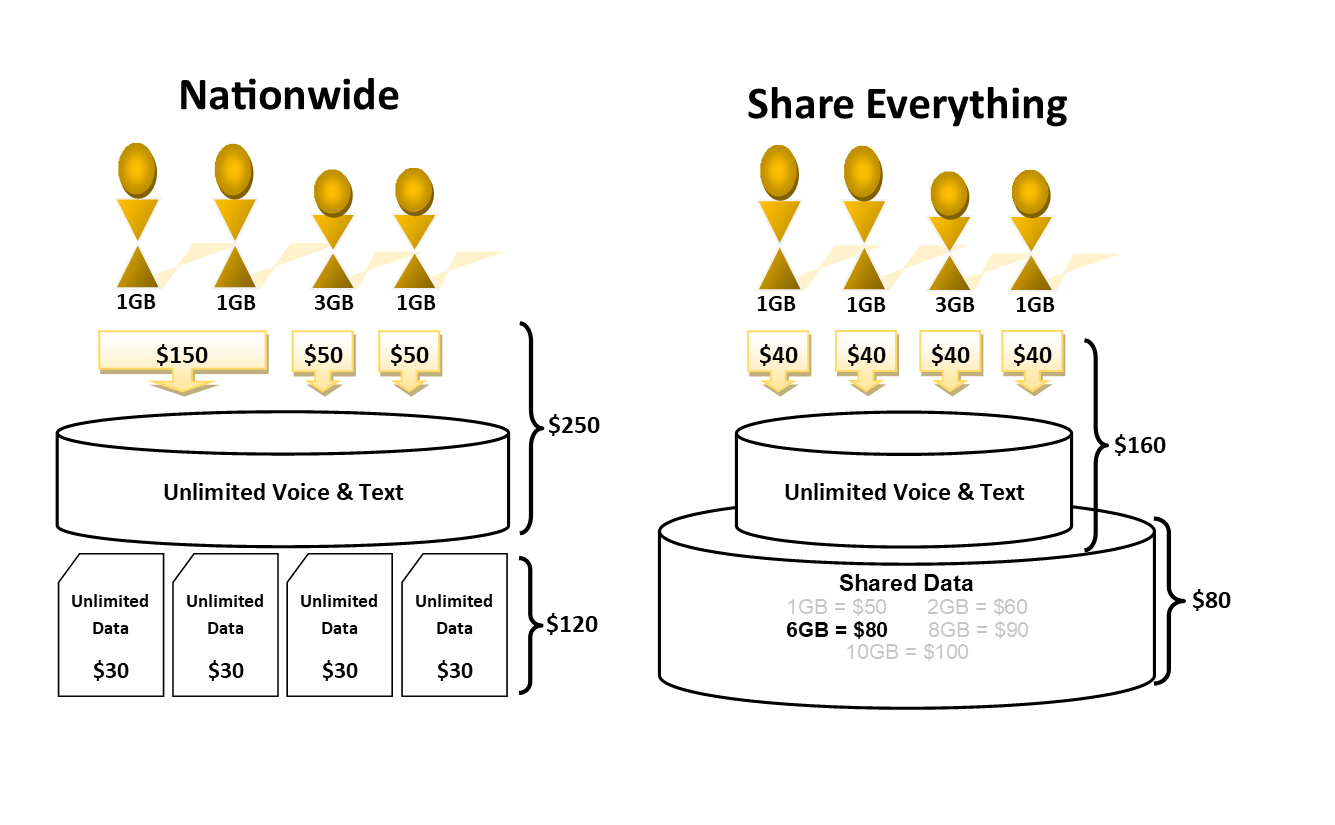
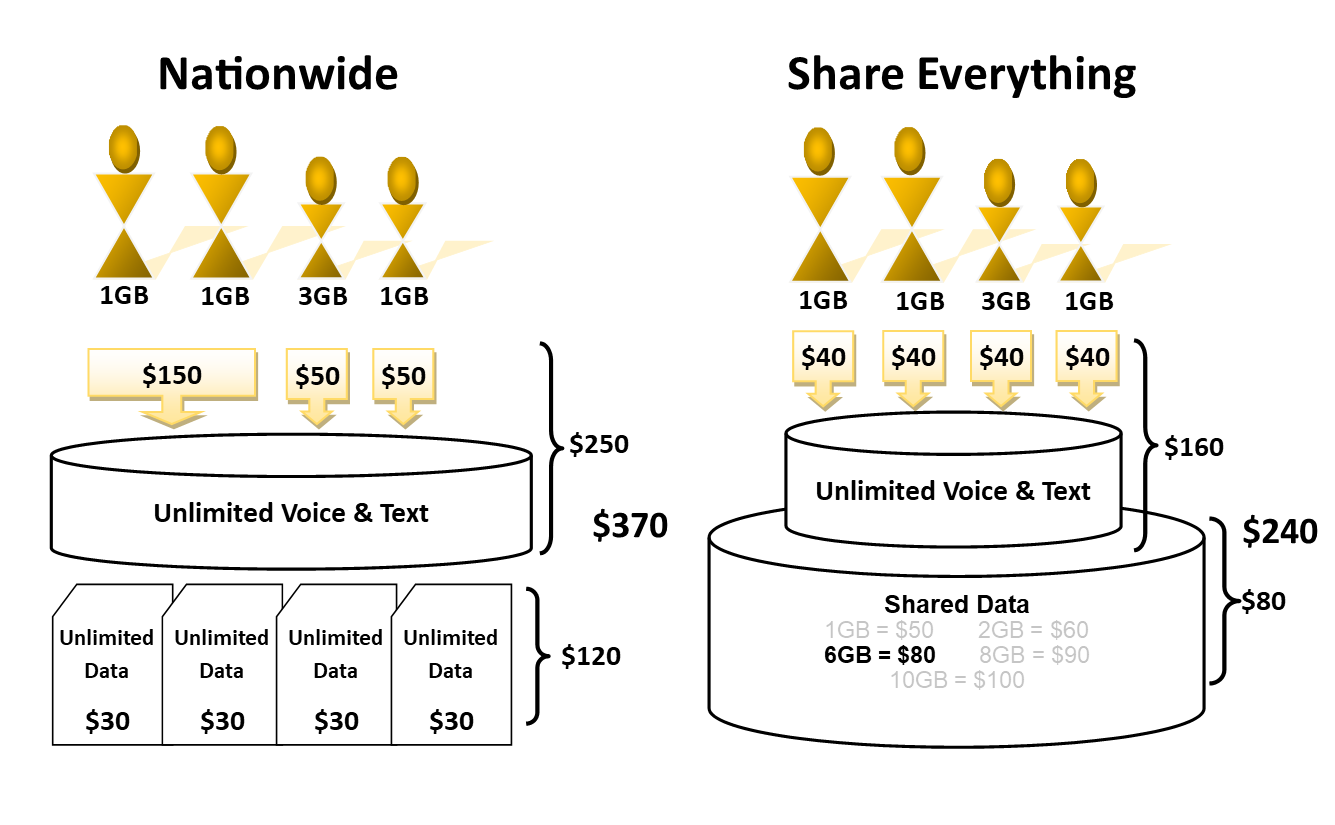
update verizon case

Changed region(s): [[0.0307, 0.0606, 1.0, 0.9091]]

diff --git a/_posts/2025-09-09-Verizon-Case.md b/_posts/2025-09-09-Verizon-Case.md
@@ -16,9 +16,9 @@ The <u>Share Everything</u> plan introduced by Verizon in 2012 changed all that 
 
 The ease of connecting more devices induced customers to connect their tablets and other devices. This led to an expansion in the number of devices per household under the Verizon umbrella and increased overall market share. Each additional device incrased average revenue per user (ARPU) while raising switching costs for families. The more devices and individuals under a household's plan, the more cumbersome it is to change providers. This gave Verizon greater traction and price stickiness in the market for family plans. 
 
-Furthermore, the new structure facilitated more differentiation on data usage.  To  illustrate, a Family Nationwide Share Talk and Text Plan with four smartphones had a base price of \\$250, and if three members of the family use only 1GB of data and another has more intensive usage of 3GB every month, then for each individual data would cost $30 entitling them to unlimited data for a total data cost of \\$120. That's a total cost of \\$370 for the plan under Nationwide. 
+Furthermore, the new structure facilitated more differentiation on data usage.  To  illustrate, a Family Nationwide Unlimited Talk and Text Plan with four smartphones had a base price of \\$250. If three members of the family use only 1GB of data per month and another has more intensive usage of 3GB every month, then they each would each need to add on an unlimited data package coming to a total data cost of \\$120 and the total plan cost of \\$370 under Nationwide. 
 
-For a family that only requires 6GB of data, Share Everything changes that equation with a family plan base cost of \\$160 for the four devices, and then instead of purchasing data for each device, 6GB of data is added to the plan for \\$80 dollars and that 6GB is shared by all four devices resulting in a total of \\$240. See chart below. 
+For a family that only requires 6GB of data, Share Everything changes the equation with a family plan base cost of \\$160 for the four devices, and instead of purchasing data for each device, 6GB of data is added to the plan for \\$80 dollars and that 6GB is shared by all four devices resulting in a total of \\$240. See chart below. 
 
 ![Verizon Share Everything Pricing Comparison](/images/verizonsharechange.png)
 
